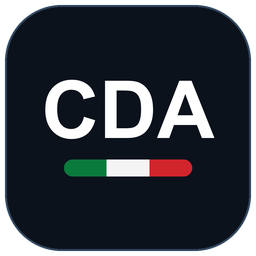
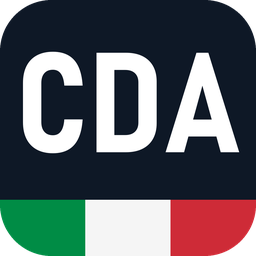
Versao 0.4.20: icone maior e legivel na barra de tarefas

diff --git a/docs/release-0.4.20.md b/docs/release-0.4.20.md
@@ -1,0 +1,10 @@
+# Caixa PDV 0.4.20
+
+- **Ícone maior e mais legível na barra de tarefas**: o "CDA" ocupa quase o quadrado inteiro, numa letra mais alta, e a faixa verde, branca e vermelha vai de ponta a ponta embaixo. Na 0.4.19 as letras ficavam pequenas no meio do quadrado e o fundo escuro sumia na barra escura do Windows. Agora o ícone tem o mesmo tamanho visual dos outros, e a faixa tricolor dá o contorno.
+- **Planilha automática**: continua como na 0.4.18. Vem desligada, e ao atualizar ela é desligada uma única vez; quem religar tem a escolha respeitada.
+
+Nenhuma mudança no banco ou no funcionamento do app. Se o Windows continuar mostrando o ícone antigo por um tempo, é o cache de ícones dele; ele atualiza sozinho ou ao reiniciar o PC.
+
+Validação: build de produção e o mesmo QA da 0.4.18 no executável empacotado, como servidor e como cliente.
+
+Atualize servidor e clientes para a mesma versão.

diff --git a/README.md b/README.md
@@ -2,7 +2,7 @@
 
 Aplicativo desktop para Windows de caixa/PDV local, feito para bares, restaurantes e pequenos comércios que trabalham com **mesas, comandas e vários computadores na mesma rede**. Tudo funciona offline, sem mensalidade e sem depender de nuvem.
 
-> Versão atual: **0.4.19** · [Baixar na página de Releases](https://github.com/OtavioBiazzi/aplicativo-contabilizador/releases)
+> Versão atual: **0.4.20** · [Baixar na página de Releases](https://github.com/OtavioBiazzi/aplicativo-contabilizador/releases)
 >
 > O projeto começou como "Contabilizador Caixa" (uma calculadora de caixa com exportação para Excel) e evoluiu para um PDV completo. O histórico de cada versão está nas notas das releases e em [`docs/`](docs/).
 
